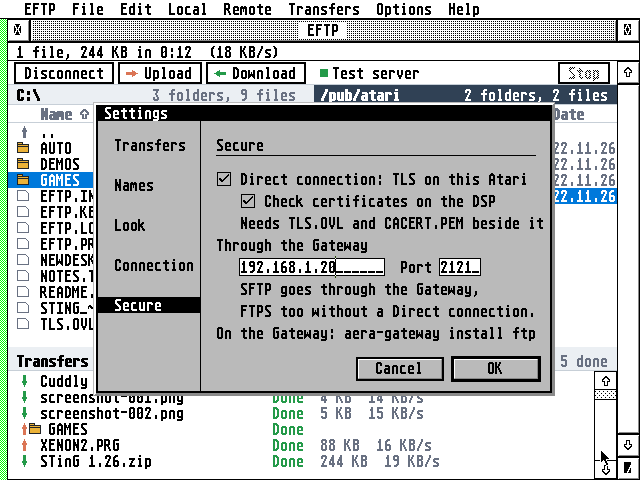
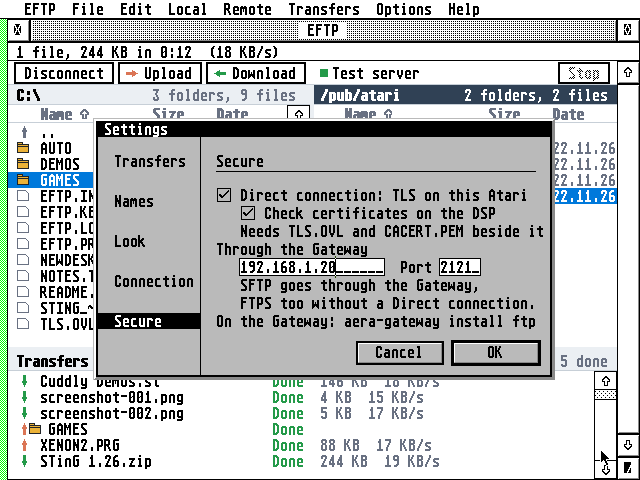
Settings 16 rows again: the Secure page's eight rows 2 pixels apart
With ac02729's layout Settings was 18 rows tall, and opening it on
ST:mono went from 2.16's 180 ms to 190 in both pair runs, two ticks over.
Erez chose (22 Nov 2026), from two pictures, "B: 16 rows, tighter Secure
page".

The rows stay as he approved: "Through the Gateway" on its own row, the
address and port fields on the next. Only the Secure page puts its rows
an eighth of a line apart (2 pixels with the 16-pixel font), not 3/8.
The dialog, its list, its pages' box and its buttons are 2.16's again,
and so are the rigs' clicks in Settings (settings_test, screenshots.py).

make test: 3112 checks, 0 failed. str_copy stays at 0x12b3e.

Claude-Session: https://claude.ai/code/session_014XE5ftAAPaBvUdzFjsDDv9

Changed region(s): [[0.125, 0.1875, 0.875, 0.5312], [0.125, 0.375, 0.875, 0.8438], [0.5938, 0.9062, 0.625, 0.9375]]

diff --git a/ui/dialogs.c b/ui/dialogs.c
@@ -1374,6 +1374,10 @@ static void part_secure(short x, short y)
 	const char *note = can ? "Needs TLS.OVL and CACERT.PEM beside it" :
 			   "Needs a 68020 or better (TT, Falcon)";
 	rows_at(y);
+	/* eight rows in the others' height: a gap of an eighth of a line (2 pixels
+	   with the 16-pixel font) between them, not 3/8, so Settings keeps its
+	   16 lines (18 cost ST:mono 10 ms on opening it, 22 Nov 2026) */
+	row_gap = (short)(gl_hchar / 8);
 	d_tick(x, ROW(0), "Direct connection: TLS on this Atari", T_FALCON);
 	d_tick(x + 3, ROW(1), "Check certificates on the DSP", T_DSP);
 	d_add(G_STRING, 0, 0, (long)note, x + 3, ROW(2), (short)strlen(note), 1);
@@ -1467,7 +1471,7 @@ static short settings_sidebar(short *ok)
 {
 	const char *const *names = page_names;
 	short k, box, gap = (short)(gl_hchar / 2);
-	d_begin(SX + 42, 18);	/* 18: the Secure page's eight rows (Erez's Gateway words, 22 Nov 2026) */
+	d_begin(SX + 42, 16);
 	nticks = 0;
 	npages = 0;
 	adding_page = 0;
@@ -1475,22 +1479,22 @@ static short settings_sidebar(short *ok)
 	d_band(SX + 42, " Settings");
 	/* the list: plain words on white, the chosen one in a black bar, a
 	   line between it and the settings */
-	d_add(G_BOX, 0, 0, 0x00001171L, SW, 1, (short)(0 | (1 << 8)), 17);
+	d_add(G_BOX, 0, 0, 0x00001171L, SW, 1, (short)(0 | (1 << 8)), 15);
 	for (k = 0; k < 5; k++) {
 		npages++;
 		page_tab[npages] = d_add(G_BOXTEXT, TOUCHEXIT, 0, (long)d_ted(names[k], 0, 0x1180),
 					 (short)(0 | (2 << 8)), (short)((2 + k * 2) | ((k * gap) << 8)),
 					 (short)((SW - 1) | (6 << 8)), 1);
 	}
-	box = d_add(G_IBOX, 0, 0, 0, SX - 1, 2, 42, 14);	/* 14: the Secure page's eighth row */
+	box = d_add(G_IBOX, 0, 0, 0, SX - 1, 2, 42, 12);
 	/* each page in a box of its own, hidden whole: TOS 1.04's AES takes
 	   some 0.3 ms for each hidden object it passes over (19 ms of
 	   Settings' 251); the first now, the others when chosen */
 	memset(page_built, 0, sizeof(page_built));
 	page_add(1);
 	adding_page = 0;
-	set_cancel = d_button(SX + 18, 16, 10, "Cancel", EXIT);
-	*ok = set_ok = d_button(SX + 30, 16, 10, "OK", EXIT | DEFAULT);
+	set_cancel = d_button(SX + 18, 14, 10, "Cancel", EXIT);
+	*ok = set_ok = d_button(SX + 30, 14, 10, "OK", EXIT | DEFAULT);
 	d_end();
 	show_page(1, 0);
 	return box;

diff --git a/tests/hatari/screenshots.py b/tests/hatari/screenshots.py
@@ -85,7 +85,7 @@ try:
     time.sleep(25)
     r.key(0x33, ctrl=True)                     # Settings (^,: Options' second entry is Sites since 2.5)
     time.sleep(2)
-    r.click(140, 305)                          # the Secure part (Settings 18 rows tall since 2.17)
+    r.click(140, 321)                          # the Secure part
     r.move(600, 450)
     time.sleep(1.5)
     keep(r, "settings", "settings.png")

diff --git a/tests/hatari/settings_test.py b/tests/hatari/settings_test.py
@@ -34,7 +34,7 @@ print("on %s, %s" % (m.describe(), m.prg), flush=True)
 srv, home = server.ftp_server(work)
 hd = server.drive_c(work, prg=m.prg)
 inf = rig.machines.ci_path(hd, "eftp.inf")
-CONNECTION, SECURE = (150, 265), (150, 305)     # Settings' parts, in its list (18 rows tall since 2.17)
+CONNECTION, SECURE = (150, 281), (150, 321)     # Settings' parts, in its list
 fails = []
 
 
